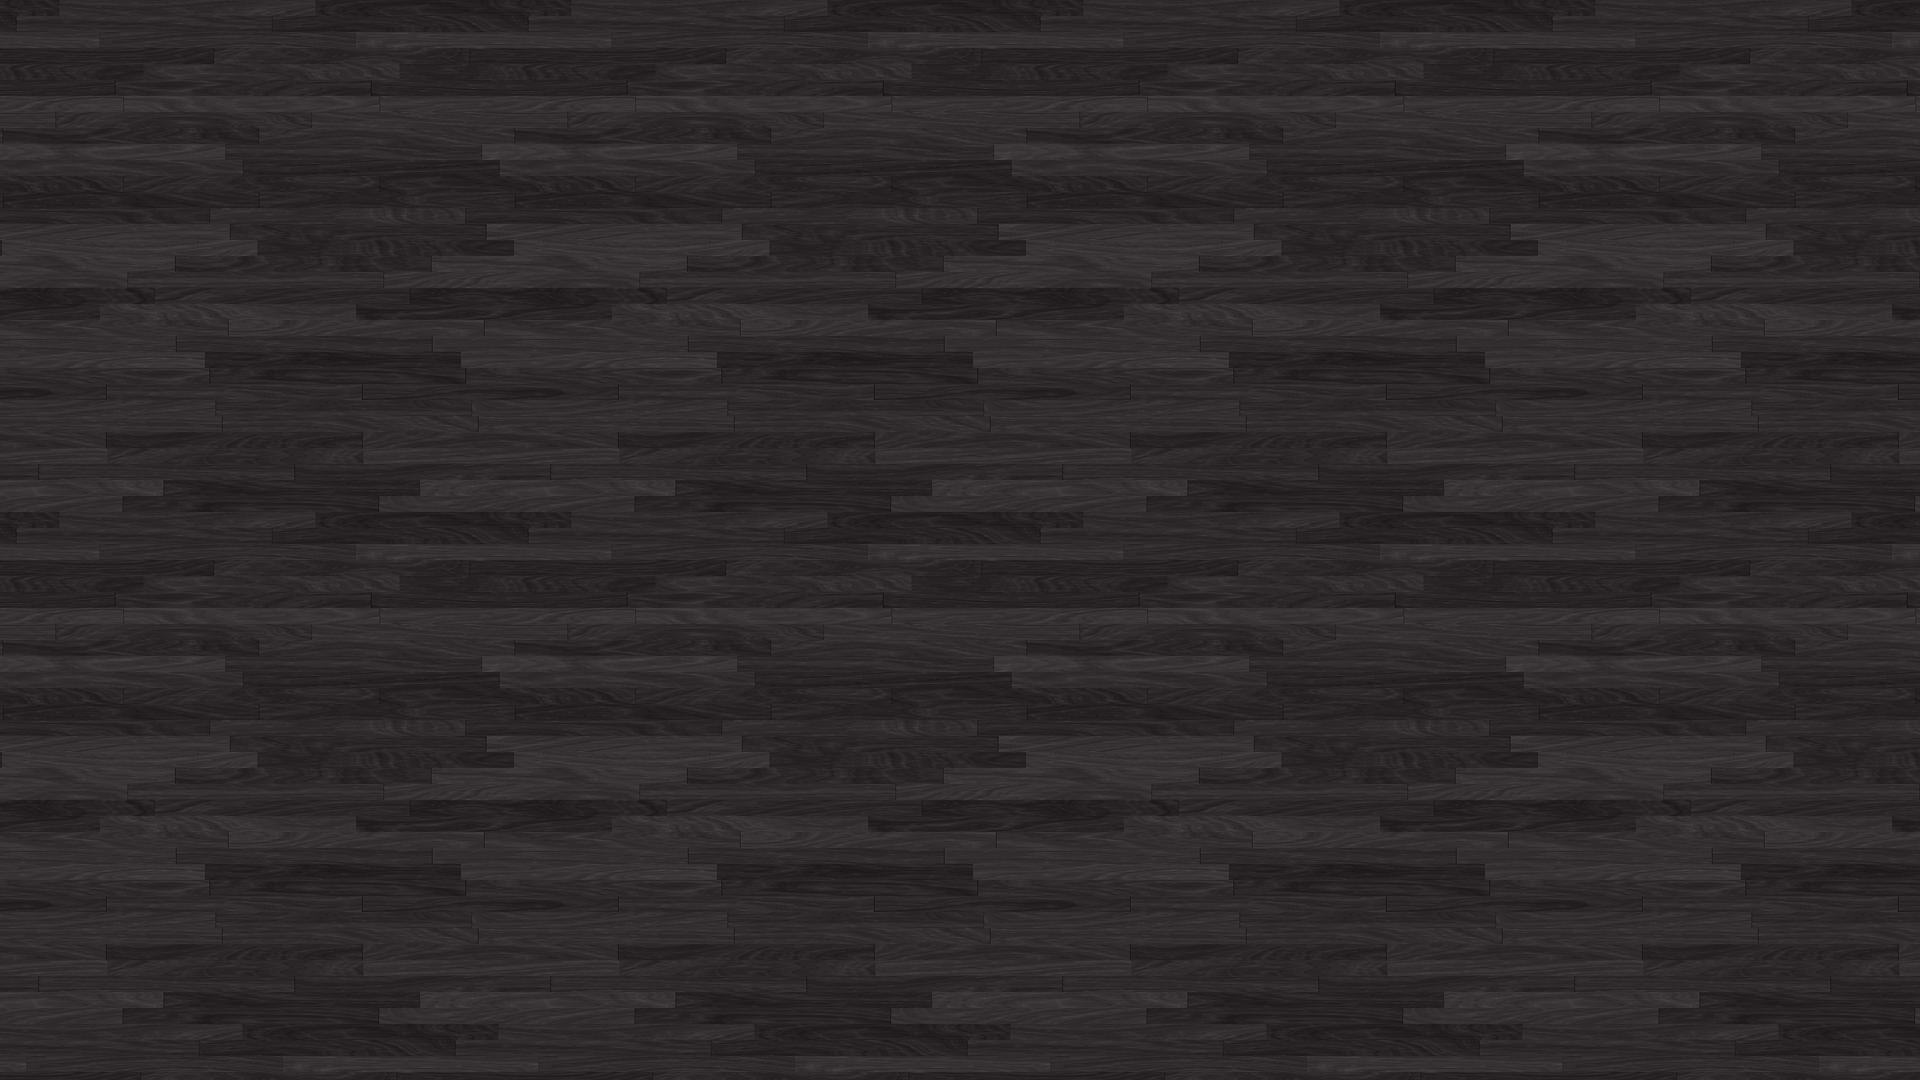
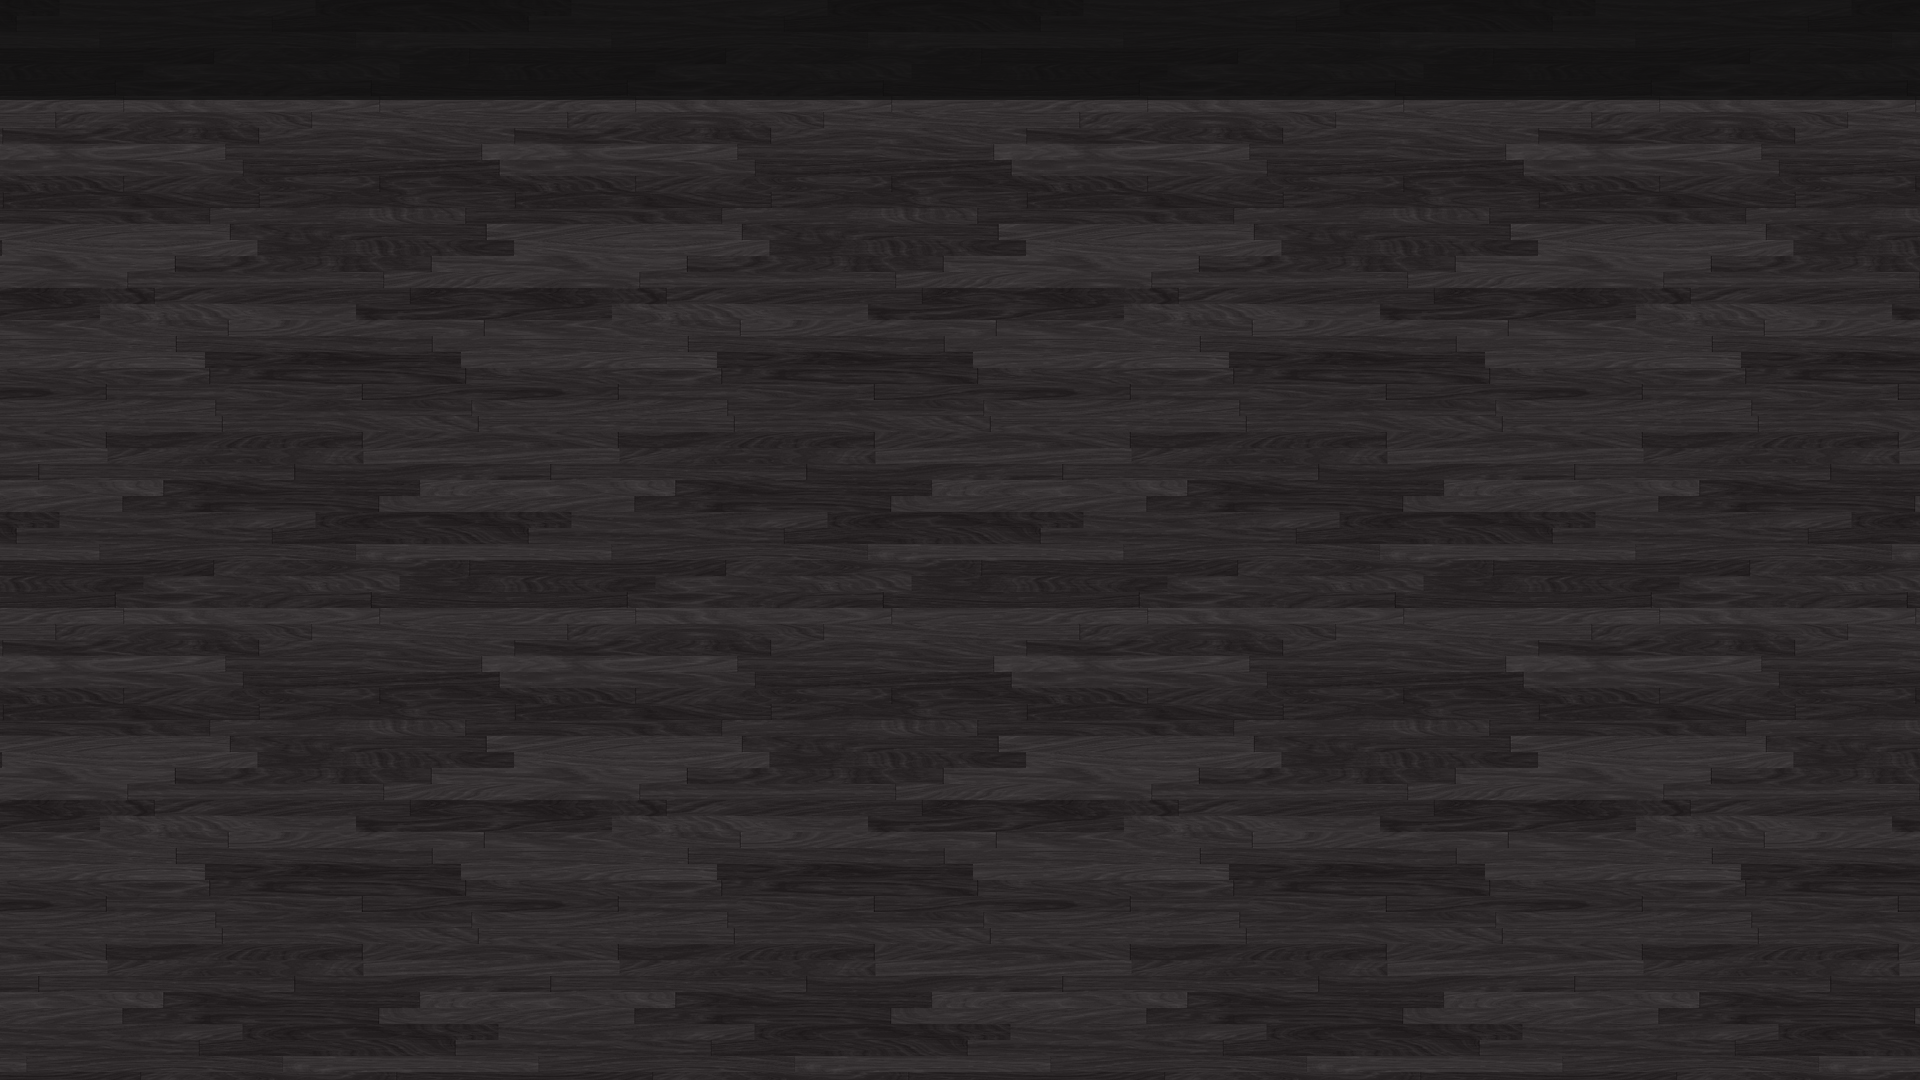
Posters are now shown when browsing TV and movies

Changed region(s): [[0.0, 0.0, 1.0, 0.0917]]

diff --git a/player/gui/listview.py b/player/gui/listview.py
@@ -9,8 +9,12 @@ class ListView:
 		self.labels = []
 		self.scope = [0, 0]
 		self.hlPos = -1
-		self.title = False
-		self.max_positions = int((self.window.get_resolution()['height']-80)/50.0-1)
+		self.leftTitle = False
+		self.rightTitle = False
+		self.detailedInfo = False
+		self.poster = False
+		self.posterData = False
+		self.max_positions = int((self.window.get_resolution()['height']-70)/50.0-1)
 		self.hl_img = ImageTk.PhotoImage(file="gui/images/highlighter.png");
 		self.window.register("listview", self.keypressAction)
 	
@@ -22,13 +26,34 @@ class ListView:
 			self.window.get_bg().delete(self.hl)
 		except:
 			pass
-		self.hl = self.window.get_bg().create_image(self.window.get_resolution()['width']/2, 80, image=self.hl_img);
+		self.hl = self.window.get_bg().create_image(10, 110, image=self.hl_img, anchor="nw");
 		self.printListItems();
 
-	def setTitle(self, title):
-		if self.title:
-			self.window.get_bg().delete(self.title)
-		self.title = self.window.get_bg().create_text(40, 50, text=title, fill="white", anchor="nw", font=("Helvectica", "24"));
+	def setLeftTitle(self, title):
+		if self.leftTitle:
+			self.window.get_bg().delete(self.leftTitle)
+		self.leftTitle = self.window.get_bg().create_text(35, 27, text=title, fill="white", anchor="nw", font=("Helvectica", "36"));
+
+	def setRightTitle(self, title):
+		if self.rightTitle:
+			self.window.get_bg().delete(self.rightTitle)
+		self.rightTitle = self.window.get_bg().create_text(self.window.get_resolution()['width']-35, 27, text=title, fill="white", anchor="ne", font=("Helvectica", "36"));
+
+	def setDetailedInfo(self, info, posterData = False):
+		self.unsetDetailedInfo()
+		if posterData:
+			try:
+				self.posterData = ImageTk.PhotoImage(data=posterData)
+				self.poster = self.window.get_bg().create_image(self.window.get_resolution()['width']-40, 110, image=self.posterData, anchor="ne");
+			except:
+				pass
+		self.detailedInfo = self.window.get_bg().create_text(self.window.get_resolution()['width']-350, 600, text=info, fill="white", anchor="nw", font=("Helvectica", "16"), width=320);
+
+	def unsetDetailedInfo(self):
+		if self.detailedInfo:
+			self.window.get_bg().delete(self.detailedInfo)
+		if self.poster:
+			self.window.get_bg().delete(self.poster)
 	
 	def printListItems(self):
 		for l in self.labels:
@@ -37,7 +62,7 @@ class ListView:
 		y_offset = 1
 		for i in range(self.scope[0], self.scope[1]):
 			f = self.listItems[i]
-			self.labels.append(self.window.get_bg().create_text(self.window.get_resolution()["width"]/2-385, 15+y_offset*50, text=f.get_label(), anchor="nw", fill="white", font=("Helvectica", "24"), width=800));
+			self.labels.append(self.window.get_bg().create_text(25, 70+y_offset*50, text=f.get_label(), anchor="nw", fill="white", font=("Helvectica", "24"), width=800));
 			y_offset += 1
 
 	def keypressAction(self, event):
@@ -45,45 +70,58 @@ class ListView:
 			if self.hlPos < self.max_positions-1 and self.hlPos < len(self.listItems)-1:
 				self.hlPos += 1
 				self.window.get_bg().move(self.hl, 0, 50);
+				self.triggerHover();
 			elif self.scope[1] < len(self.listItems):
 				self.scope[0] += 1
 				self.scope[1] += 1
 				self.printListItems();
+				self.triggerHover();
 
 		elif event.keycode == 7993133 or event.keycode == 117: # Page down
 			if self.hlPos < min(self.max_positions-1, len(self.listItems)-1): # The hl is not at the bottom
 				self.window.get_bg().move(self.hl, 0, 50*(min(self.max_positions-self.hlPos-1, len(self.listItems)-1)));
 				self.hlPos = min(self.max_positions-1, len(self.listItems)-1)
+				self.triggerHover();
 			elif self.hlPos == self.max_positions-1: # Hl at bottom
 				self.scope[1] = min(self.max_positions+self.scope[1], len(self.listItems)-1)
 				self.scope[0] = self.scope[1] - min(self.max_positions, self.listItems)
 				self.printListItems();
+				self.triggerHover();
 
 		elif event.keycode == 7665452 or event.keycode == 112: # Page up
 			if self.hlPos != 0: # The hl is not at the top
 				self.window.get_bg().move(self.hl, 0, -50*self.hlPos);
 				self.hlPos = 0;
+				self.triggerHover();
 			else: # Hl at top
 				self.scope[0] = max(0, self.scope[0]-self.max_positions)
 				self.scope[1] = min(self.max_positions+self.scope[0], len(self.listItems))
 				self.printListItems();
+				self.triggerHover();
 
 		elif event.keycode == 8320768 or event.keycode == 111: # Arrow up
 			if self.hlPos > 0:
 				self.hlPos -= 1
 				self.window.get_bg().move(self.hl, 0, -50);
+				self.triggerHover();
 			elif self.scope[0] > 0:
 				self.scope[0] -= 1
 				self.scope[1] -= 1
 				self.printListItems();
+				self.triggerHover();
 
 		elif event.keycode == 2359309 or event.keycode == 36: # Enter
 			selectedItem = self.scope[0]+self.hlPos
 			self.onActionFn("enter", self.listItems[selectedItem])
+			self.triggerHover();
 
 		elif event.keycode == 3473435 or event.keycode == 9: # Esc
 			selectedItem = self.scope[0]+self.hlPos
-			self.onActionFn("esc", self.listItems[selectedItem])
+			if selectedItem < len(self.listItems):
+				self.onActionFn("esc", self.listItems[selectedItem])
+			else:
+				self.onActionFn("esc", None)
+			self.triggerHover();
 
 		elif event.keycode == 6354696 or event.keycode == 71: # F5
 			selectedItem = self.scope[0]+self.hlPos
@@ -92,8 +130,16 @@ class ListView:
 		else:
 			print "Keypress: No match for key " + str(event.keycode)
 	
+	def triggerHover(self):
+		currentItem = self.scope[0]+self.hlPos
+		if len(self.listItems) > currentItem:
+			self.onHoverFn(self.listItems[currentItem])
+	
 	def onAction(self, fn):
 		self.onActionFn = fn
+
+	def onHover(self, fn):
+		self.onHoverFn = fn
 
 class ListItem:
 	def __init__(self, label):

diff --git a/player/core/navigation.py b/player/core/navigation.py
@@ -9,10 +9,11 @@ class Navigation:
 		self.window = window
 		self.msg = Msg(self.window);
 		self.listView.onAction(self.onListViewAction)
+		self.listView.onHover(self.onListViewHover)
 		self.api = api
 
 	def showRoot(self, takeFocus = True):
-		self.listView.setTitle("Welcome!");
+		self.listView.setLeftTitle("Welcome!");
 		self.currentView = "root"
 		mainMenu = [ListItem("Movies"), ListItem("TV")]
 		mainMenu[0].setAttr("category", "movies")
@@ -22,7 +23,7 @@ class Navigation:
 			self.window.setFocus("listview")
 	
 	def showSeries(self):
-		self.listView.setTitle("TV Series");
+		self.listView.setLeftTitle("TV Series");
 		self.currentView = "tv"
 		listItems = []
 		for i in self.api.getSeries():
@@ -34,7 +35,7 @@ class Navigation:
 		self.window.setFocus("listview")
 
 	def showMovies(self):
-		self.listView.setTitle("Movies");
+		self.listView.setLeftTitle("Movies");
 		self.currentView = "movies"
 		listItems = []
 		for i in self.api.getMovies():
@@ -47,7 +48,7 @@ class Navigation:
 		self.window.setFocus("listview")
 
 	def showSeasons(self, media_id, title):
-		self.listView.setTitle("TV Series / " + title);
+		self.listView.setLeftTitle("TV Series / " + title);
 		self.currentView = "seasons"
 		listItems = []
 		for i in self.api.getSeasons(media_id):
@@ -70,7 +71,7 @@ class Navigation:
 			l.setAttr("file", File(i['base_dir'], i['inner_dir'], i['filename']))
 			listItems.append(l)
 			title = i['title']
-		self.listView.setTitle("TV Series / " + title + " / Season " + str(season));
+		self.listView.setLeftTitle("TV Series / " + title + " / Season " + str(season));
 		self.listView.setListItems(listItems);
 		self.window.setFocus("listview")
 	
@@ -83,6 +84,34 @@ class Navigation:
 			self.api.resync()
 			self.msg.viewMsg("Sync complete!")
 			self.showRoot(False)
+
+	def onListViewHover(self, item):
+		if self.currentView == "root":
+			self.listView.setRightTitle("")
+			self.listView.unsetDetailedInfo();
+		elif self.currentView == "movies" or self.currentView == "tv":
+			metadata = self.api.getMetadata(item.getAttr("media_id"))
+			s = ""
+			if metadata['plot']:
+				s += metadata['plot'] + "\n\n"
+			if metadata['rating']:
+				s += metadata['rating'] + " / 10.0\n"
+			if metadata['runtime']:
+				s += metadata['runtime'] + "\n"
+			if metadata['runtime'] or metadata['rating']:
+				s += "\n"
+			if metadata['released']:
+				s += "Released " + metadata['released'] + "\n"
+			if metadata['genre']:
+				s += "Genre: " + metadata['genre'] + "\n"
+			if metadata['director']:
+				s += "Director: " + metadata['director'] + "\n"
+			if metadata['writer']:
+				s += "Writer: " + metadata['writer'] + "\n"
+			if metadata['actors']:
+				s += "Actors: " + metadata['actors'] + "\n"
+			self.listView.setRightTitle(item.getAttr("title"));
+			self.listView.setDetailedInfo(s, self.api.getPoster(item.getAttr("media_id")))
 
 	def onSelection(self, item):
 		if self.currentView == "root":

diff --git a/server/core/api.py b/server/core/api.py
@@ -59,13 +59,28 @@ class Api:
 					self.db.getCursor().execute(q, [media_id])
 					row = self.db.getCursor().fetchone()
 
-					q = "select rating, year from metadata where id=?"
+					q = "select rating, year, released, genre, director, writer, actors, plot, poster, runtime from metadata where id=?"
 					self.db.getCursor().execute(q, row)
 					row = self.db.getCursor().fetchone()
 					rating = row[0] if row else ""
 					year = row[1] if row else ""
-					ans = {"rating" : rating, "year" : year}
+					released = row[3] if row else ""
+					genre = row[3] if row else ""
+					director = row[4] if row else ""
+					writer = row[5] if row else ""
+					actors = row[6] if row else ""
+					plot = row[7] if row else ""
+					poster = row[8] if row else ""
+					runtime = row[9] if row else ""
+					ans = {"rating" : rating, "year" : year, "released" : released, "genre" : genre, "director" : director, "writer" : writer, "actors" : actors, "plot" : plot, "poster" : poster, "runtime" : runtime}
 					c.send(json.dumps(ans))
+
+				if data['cmd'] == "getposter":
+					media_id = data['media_id']
+					path = "posters/" + str(media_id) + ".jpg" if os.path.exists("posters/" + str(media_id) + ".jpg") else "posters/unknown.jpg"
+					f = open(path, "r")
+					c.send(f.read())
+					f.close()
 
 				if data['cmd'] == "getmovies":
 					q = "select filename, inner_dir, base_dir, media_id, media.title, metadata.title from files join media on media.id = files.media_id left outer join metadata on metadata.id = media.metadata_id where media_type = 2 order by media.title"

diff --git a/server/core/db.py b/server/core/db.py
@@ -24,7 +24,7 @@ class Db:
 	def create_db(self):
 		self.cursor.execute('''create table files ( id integer primary key autoincrement, filename text, inner_dir text, base_dir text, season integer, episode integer, media_id integer, media_type integer, failbit integer)''')
 		self.cursor.execute('''create table media ( id integer primary key autoincrement, title text, metadata_id text)''')
-		self.cursor.execute('''create table metadata ( id integer primary key autoincrement, imdb_id text, title text, rating text, year text, releasesd text, genre text, director text, writer text, actors text, plot text, poster text, runtime text)''')
+		self.cursor.execute('''create table metadata ( id integer primary key autoincrement, imdb_id text, title text, rating text, year text, released text, genre text, director text, writer text, actors text, plot text, poster text, runtime text)''')
 	
 	# Insert a new media to DB
 	def insert_file(self, data):

diff --git a/player/core/api.py b/player/core/api.py
@@ -13,7 +13,13 @@ class Api:
 	def getMovies(self):
 		return self.sendData({"cmd" : "getmovies"})
 
-	def sendData(self, data):
+	def getMetadata(self, media_id):
+		return self.sendData({"cmd" : "getmetadata", "media_id" : media_id})
+
+	def getPoster(self, media_id):
+		return self.sendData({"cmd" : "getposter", "media_id" : media_id}, False)
+
+	def sendData(self, data, retJson = True):
 		try:
 			s = socket.socket() 
 			s.connect((config.server_ip, config.server_port))
@@ -25,7 +31,10 @@ class Api:
 					break
 				ans = ans + tmp 
 			s.close()
-			return json.loads(ans)
+			if retJson:
+				return json.loads(ans)
+			else:
+				return ans
 		except:
 			print "Could not connect to server..."
 			return False

diff --git a/server/core/collector.py b/server/core/collector.py
@@ -6,6 +6,7 @@ sys.path.insert(0, run_folder + "/core")
 
 from db import *
 from threading import Thread
+from urllib import urlretrieve
 
 class Collector(Thread):
 	def __init__(self):
@@ -30,6 +31,8 @@ class Collector(Thread):
 					data = json.loads(json_data)
 					if 'ID' in data.keys():
 						db.insertMetadata(media_id, data);
+						if data['Poster'] and len(data['Poster']) > 4:
+							urlretrieve(data['Poster'], "posters/" + str(media_id) + ".jpg")
 					else:
 						db.updateMetadataId(media_id, -1)
 				except:
